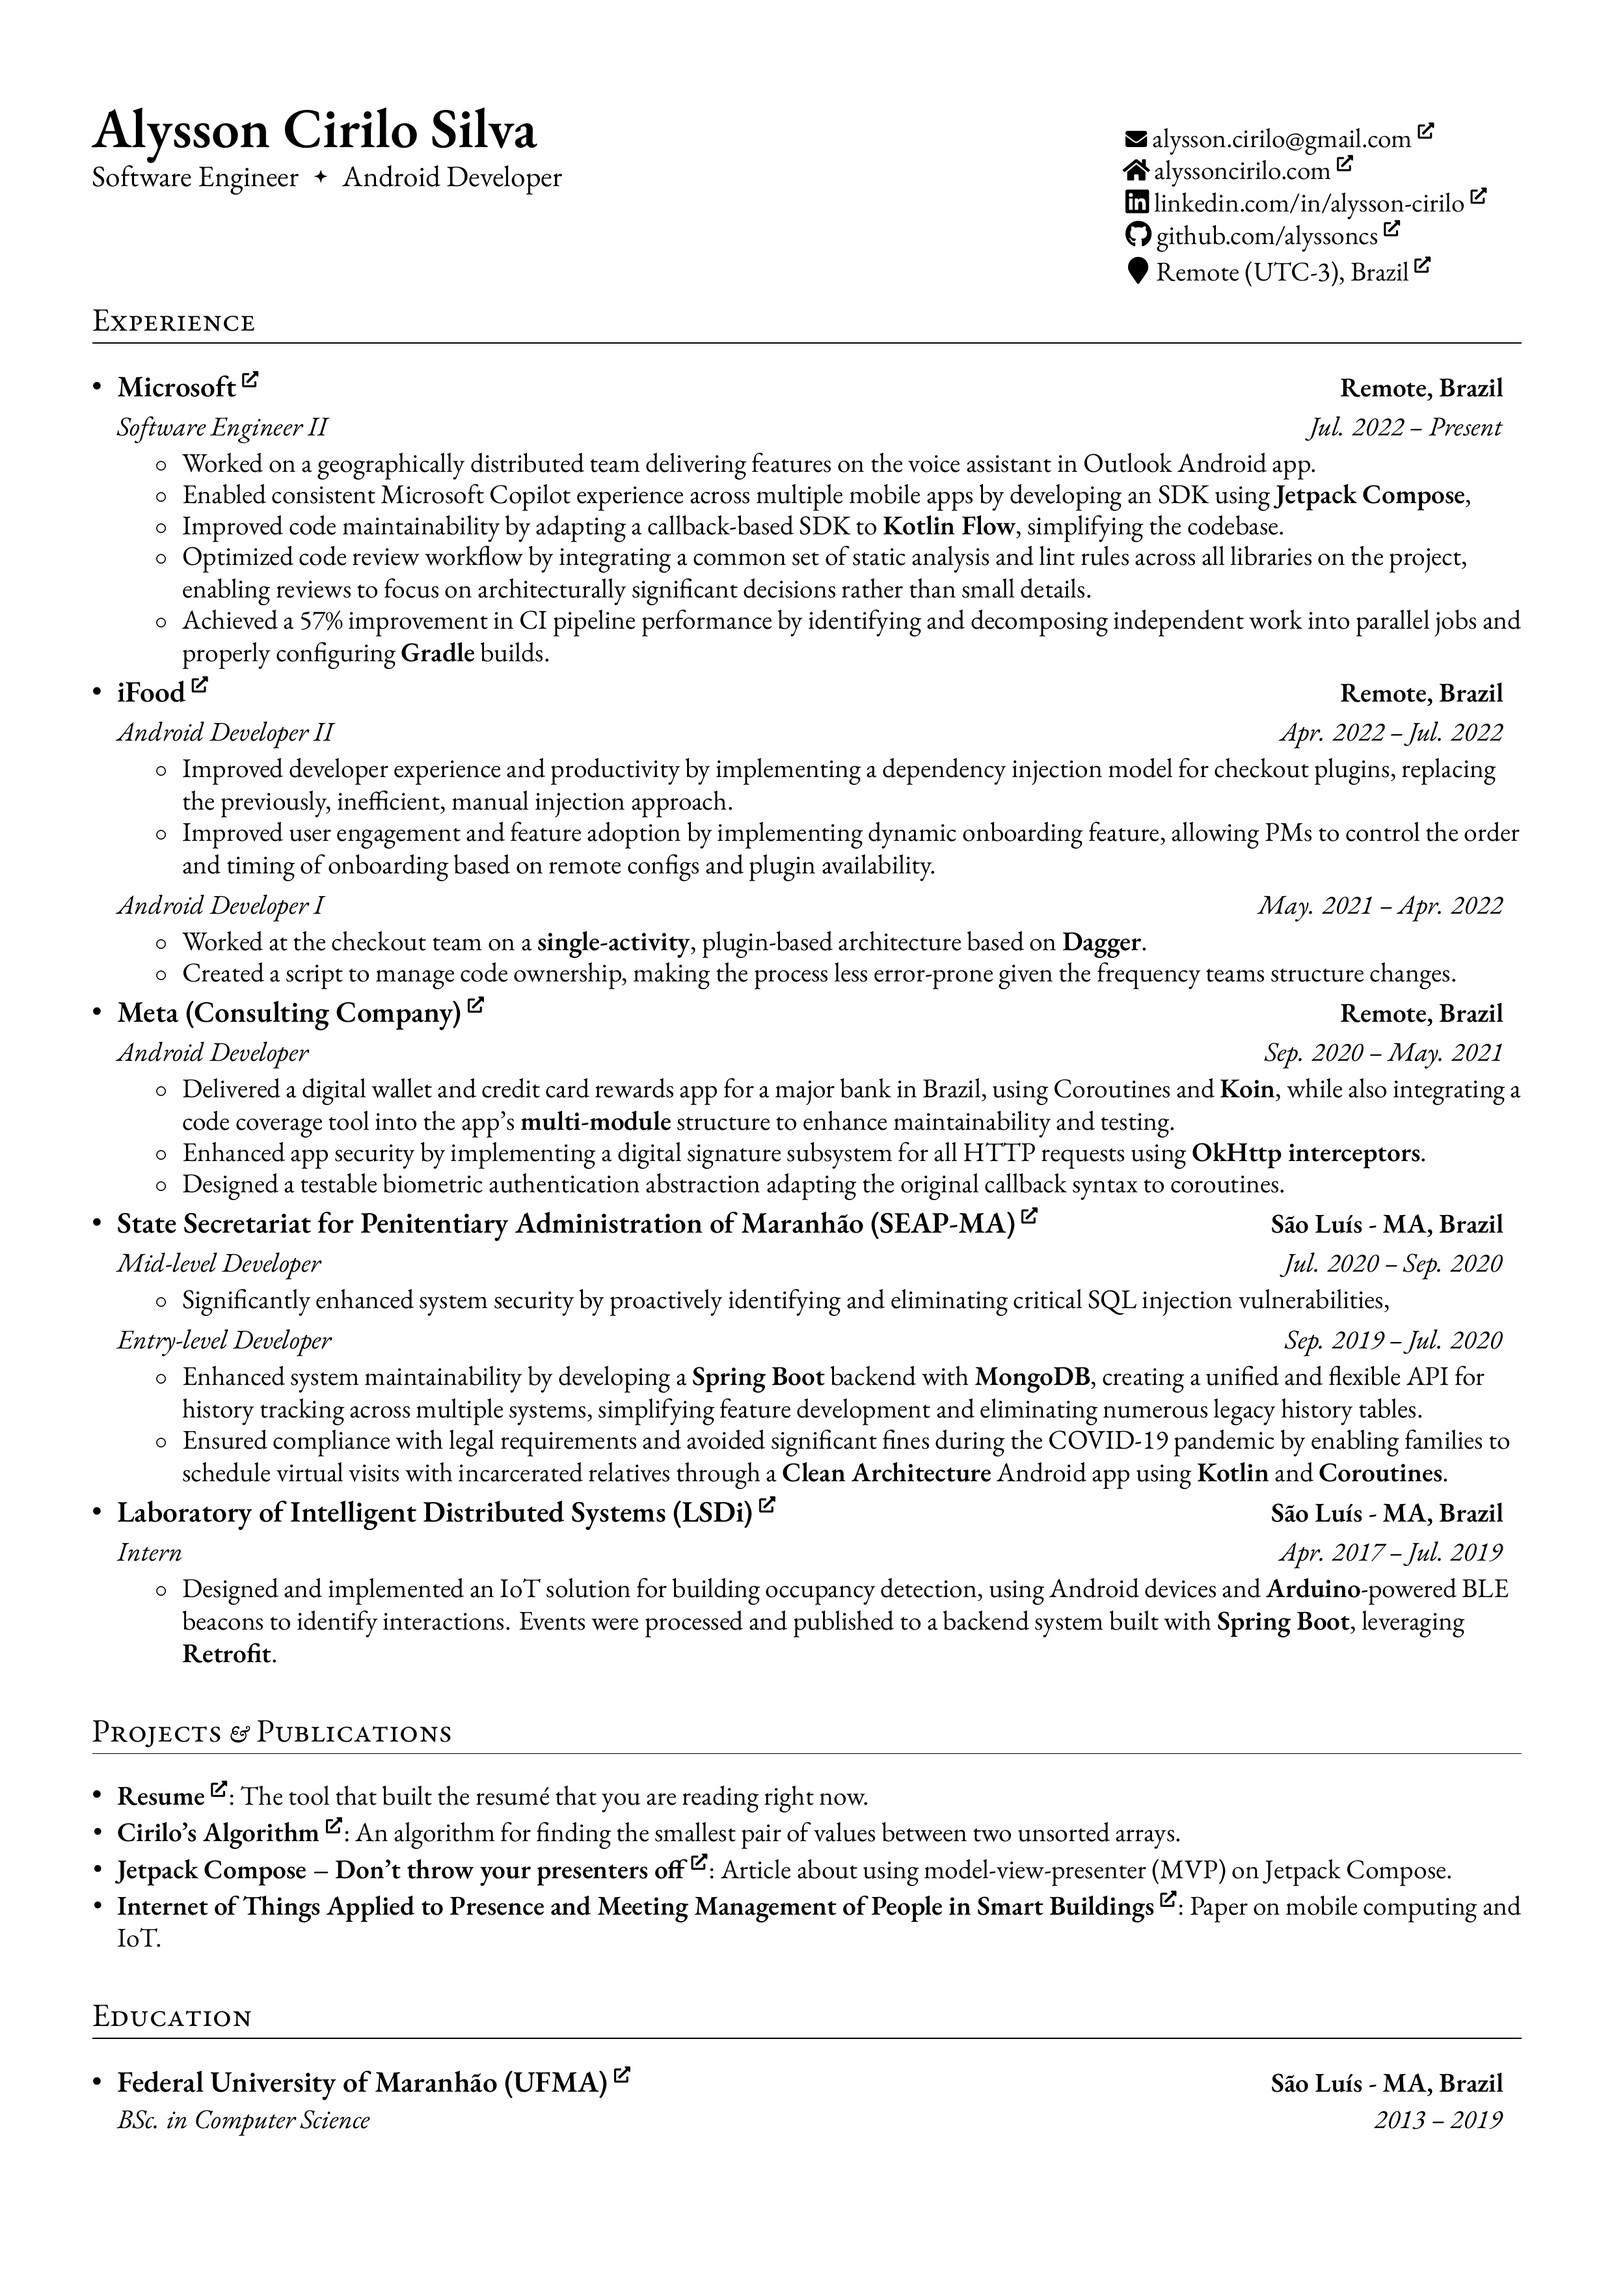
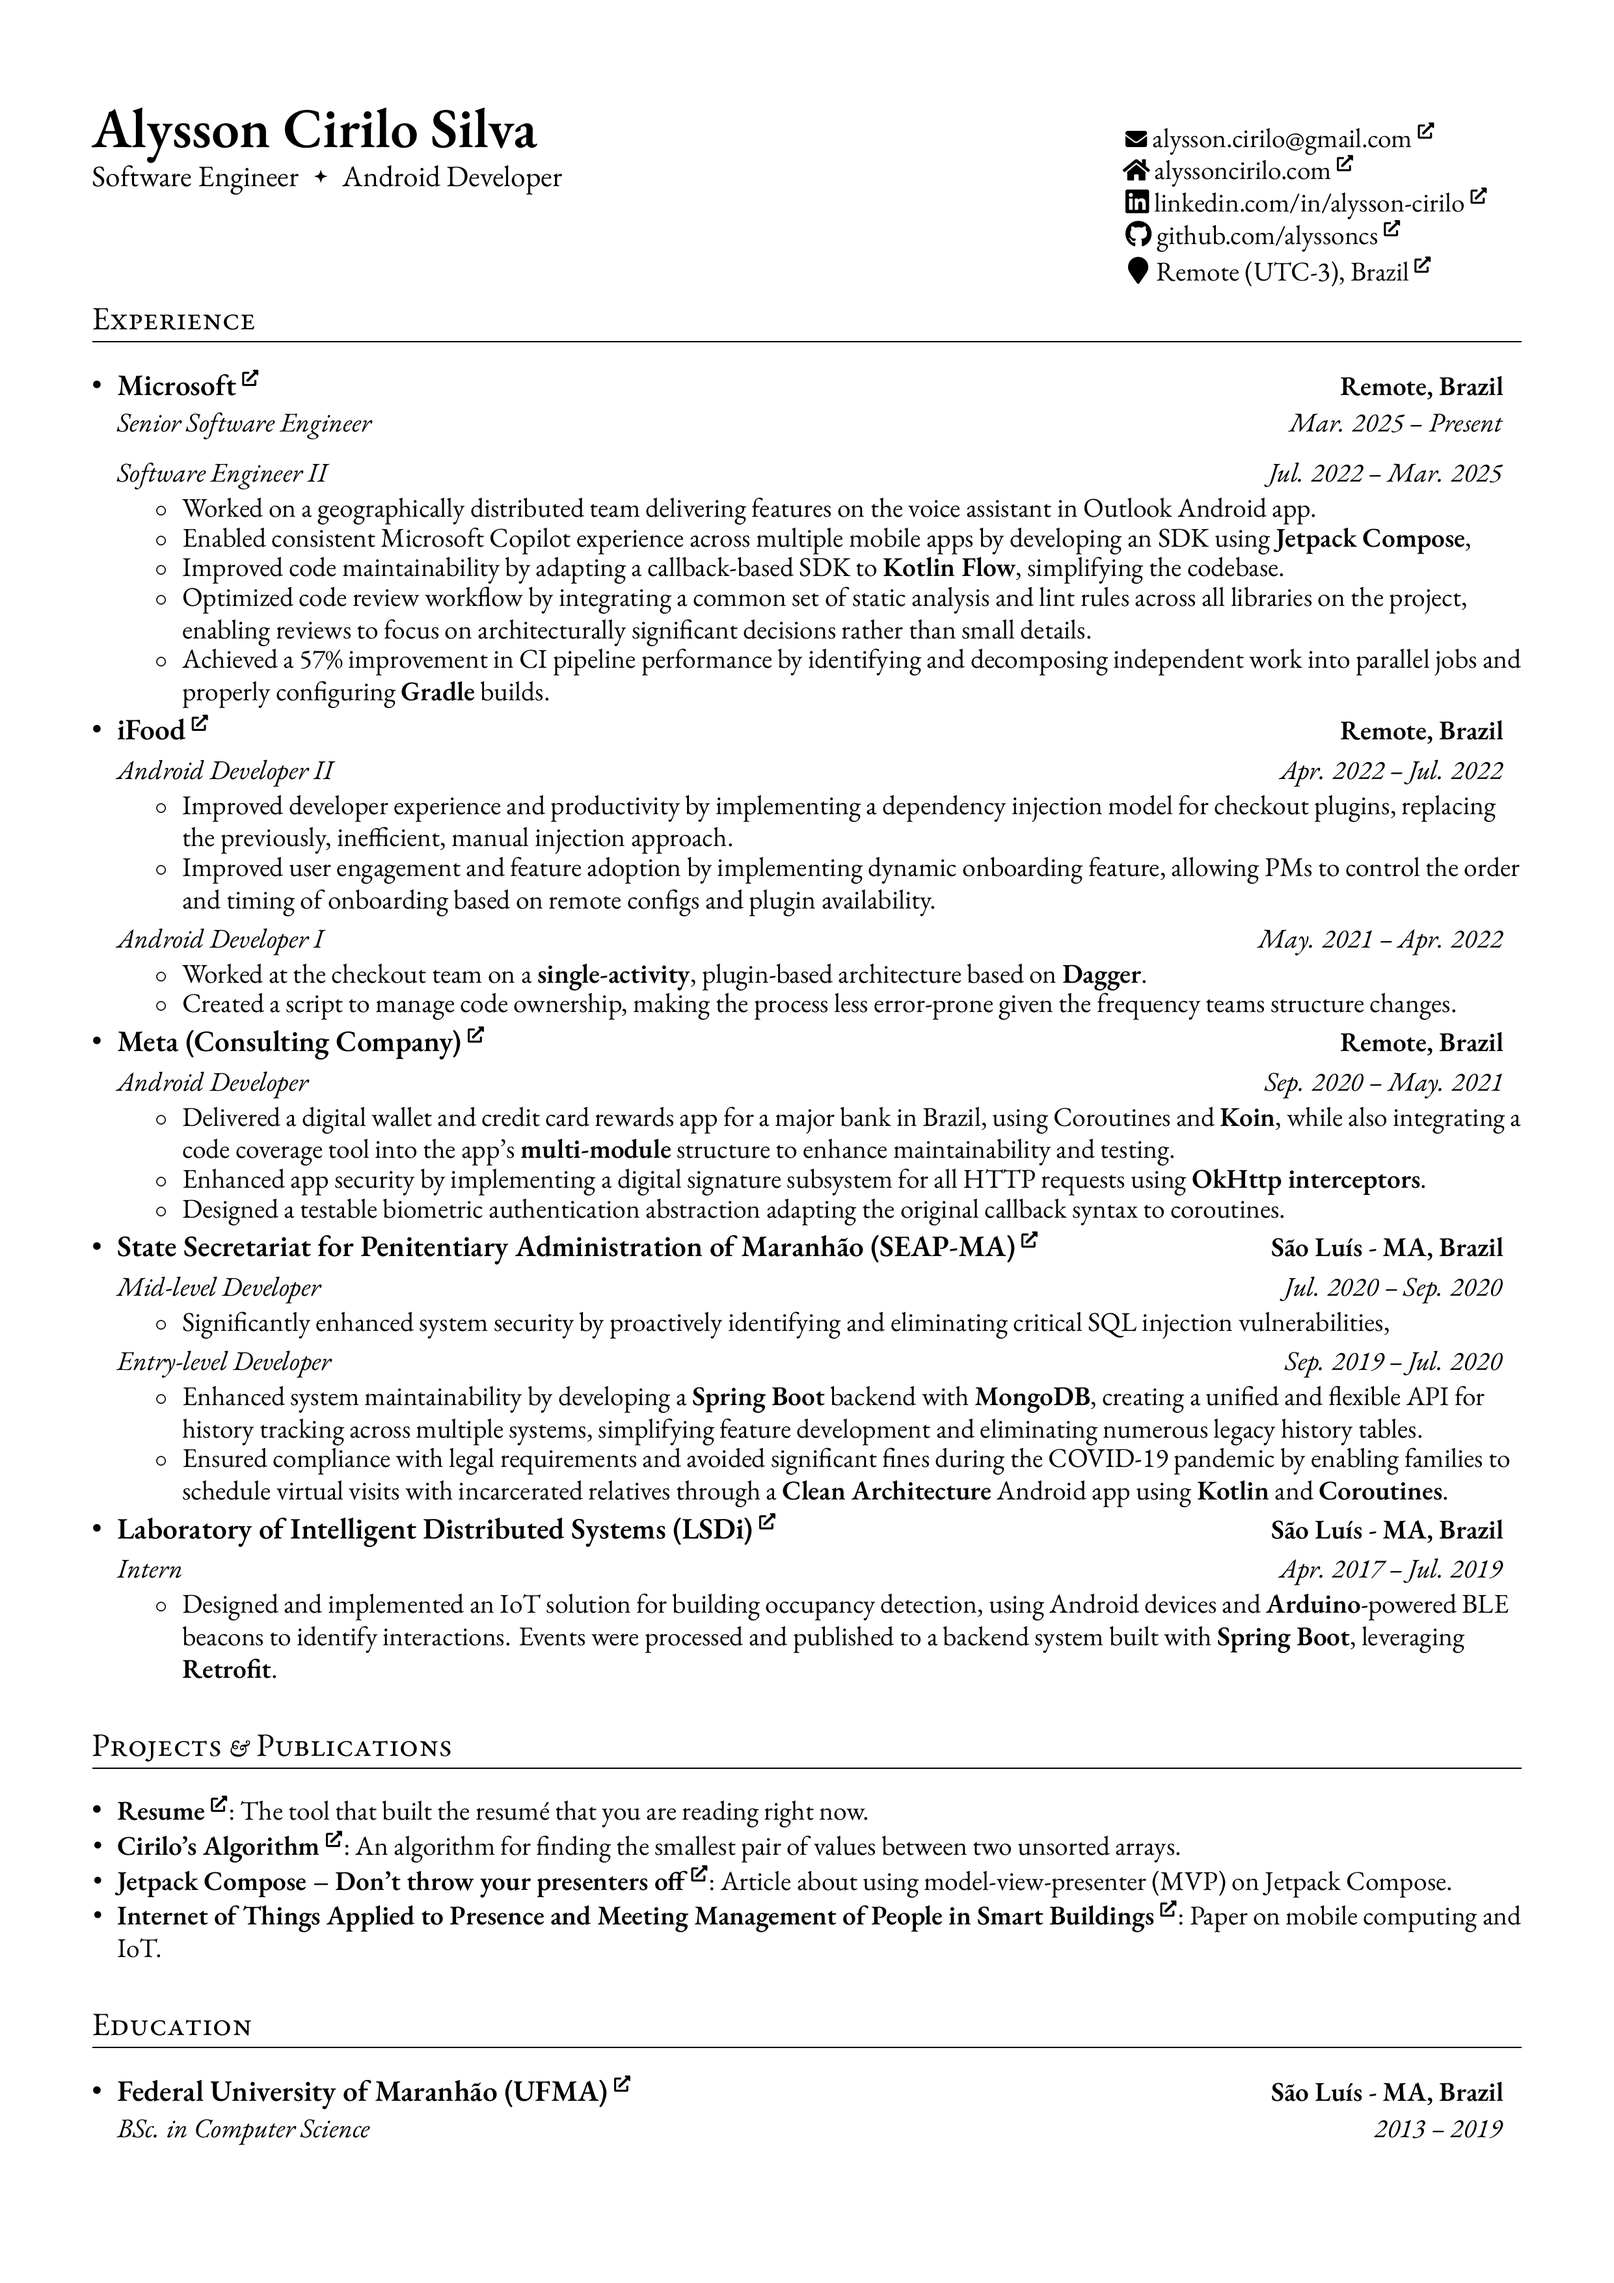
update preview

Changed region(s): [[0.0621, 0.1243, 0.9311, 0.9322], [0.7759, 0.9011, 0.9311, 0.9322]]

diff --git a/previews/markdown-resume-preview.md b/previews/markdown-resume-preview.md
@@ -12,8 +12,11 @@
 ### [Microsoft](https://www.microsoft.com/)
 - Remote, Brazil
 
+#### Senior Software Engineer
+> Mar. 2025 – Present
+
 #### Software Engineer II
-> Jul. 2022 – Present
+> Jul. 2022 – Mar. 2025
 - Worked on a geographically distributed team delivering features on the voice assistant in Outlook Android app.
 - Enabled consistent Microsoft Copilot experience across multiple mobile apps by developing an SDK using **Jetpack Compose**,
 - Improved code maintainability by adapting a callback-based SDK to **Kotlin Flow**, simplifying the codebase.
